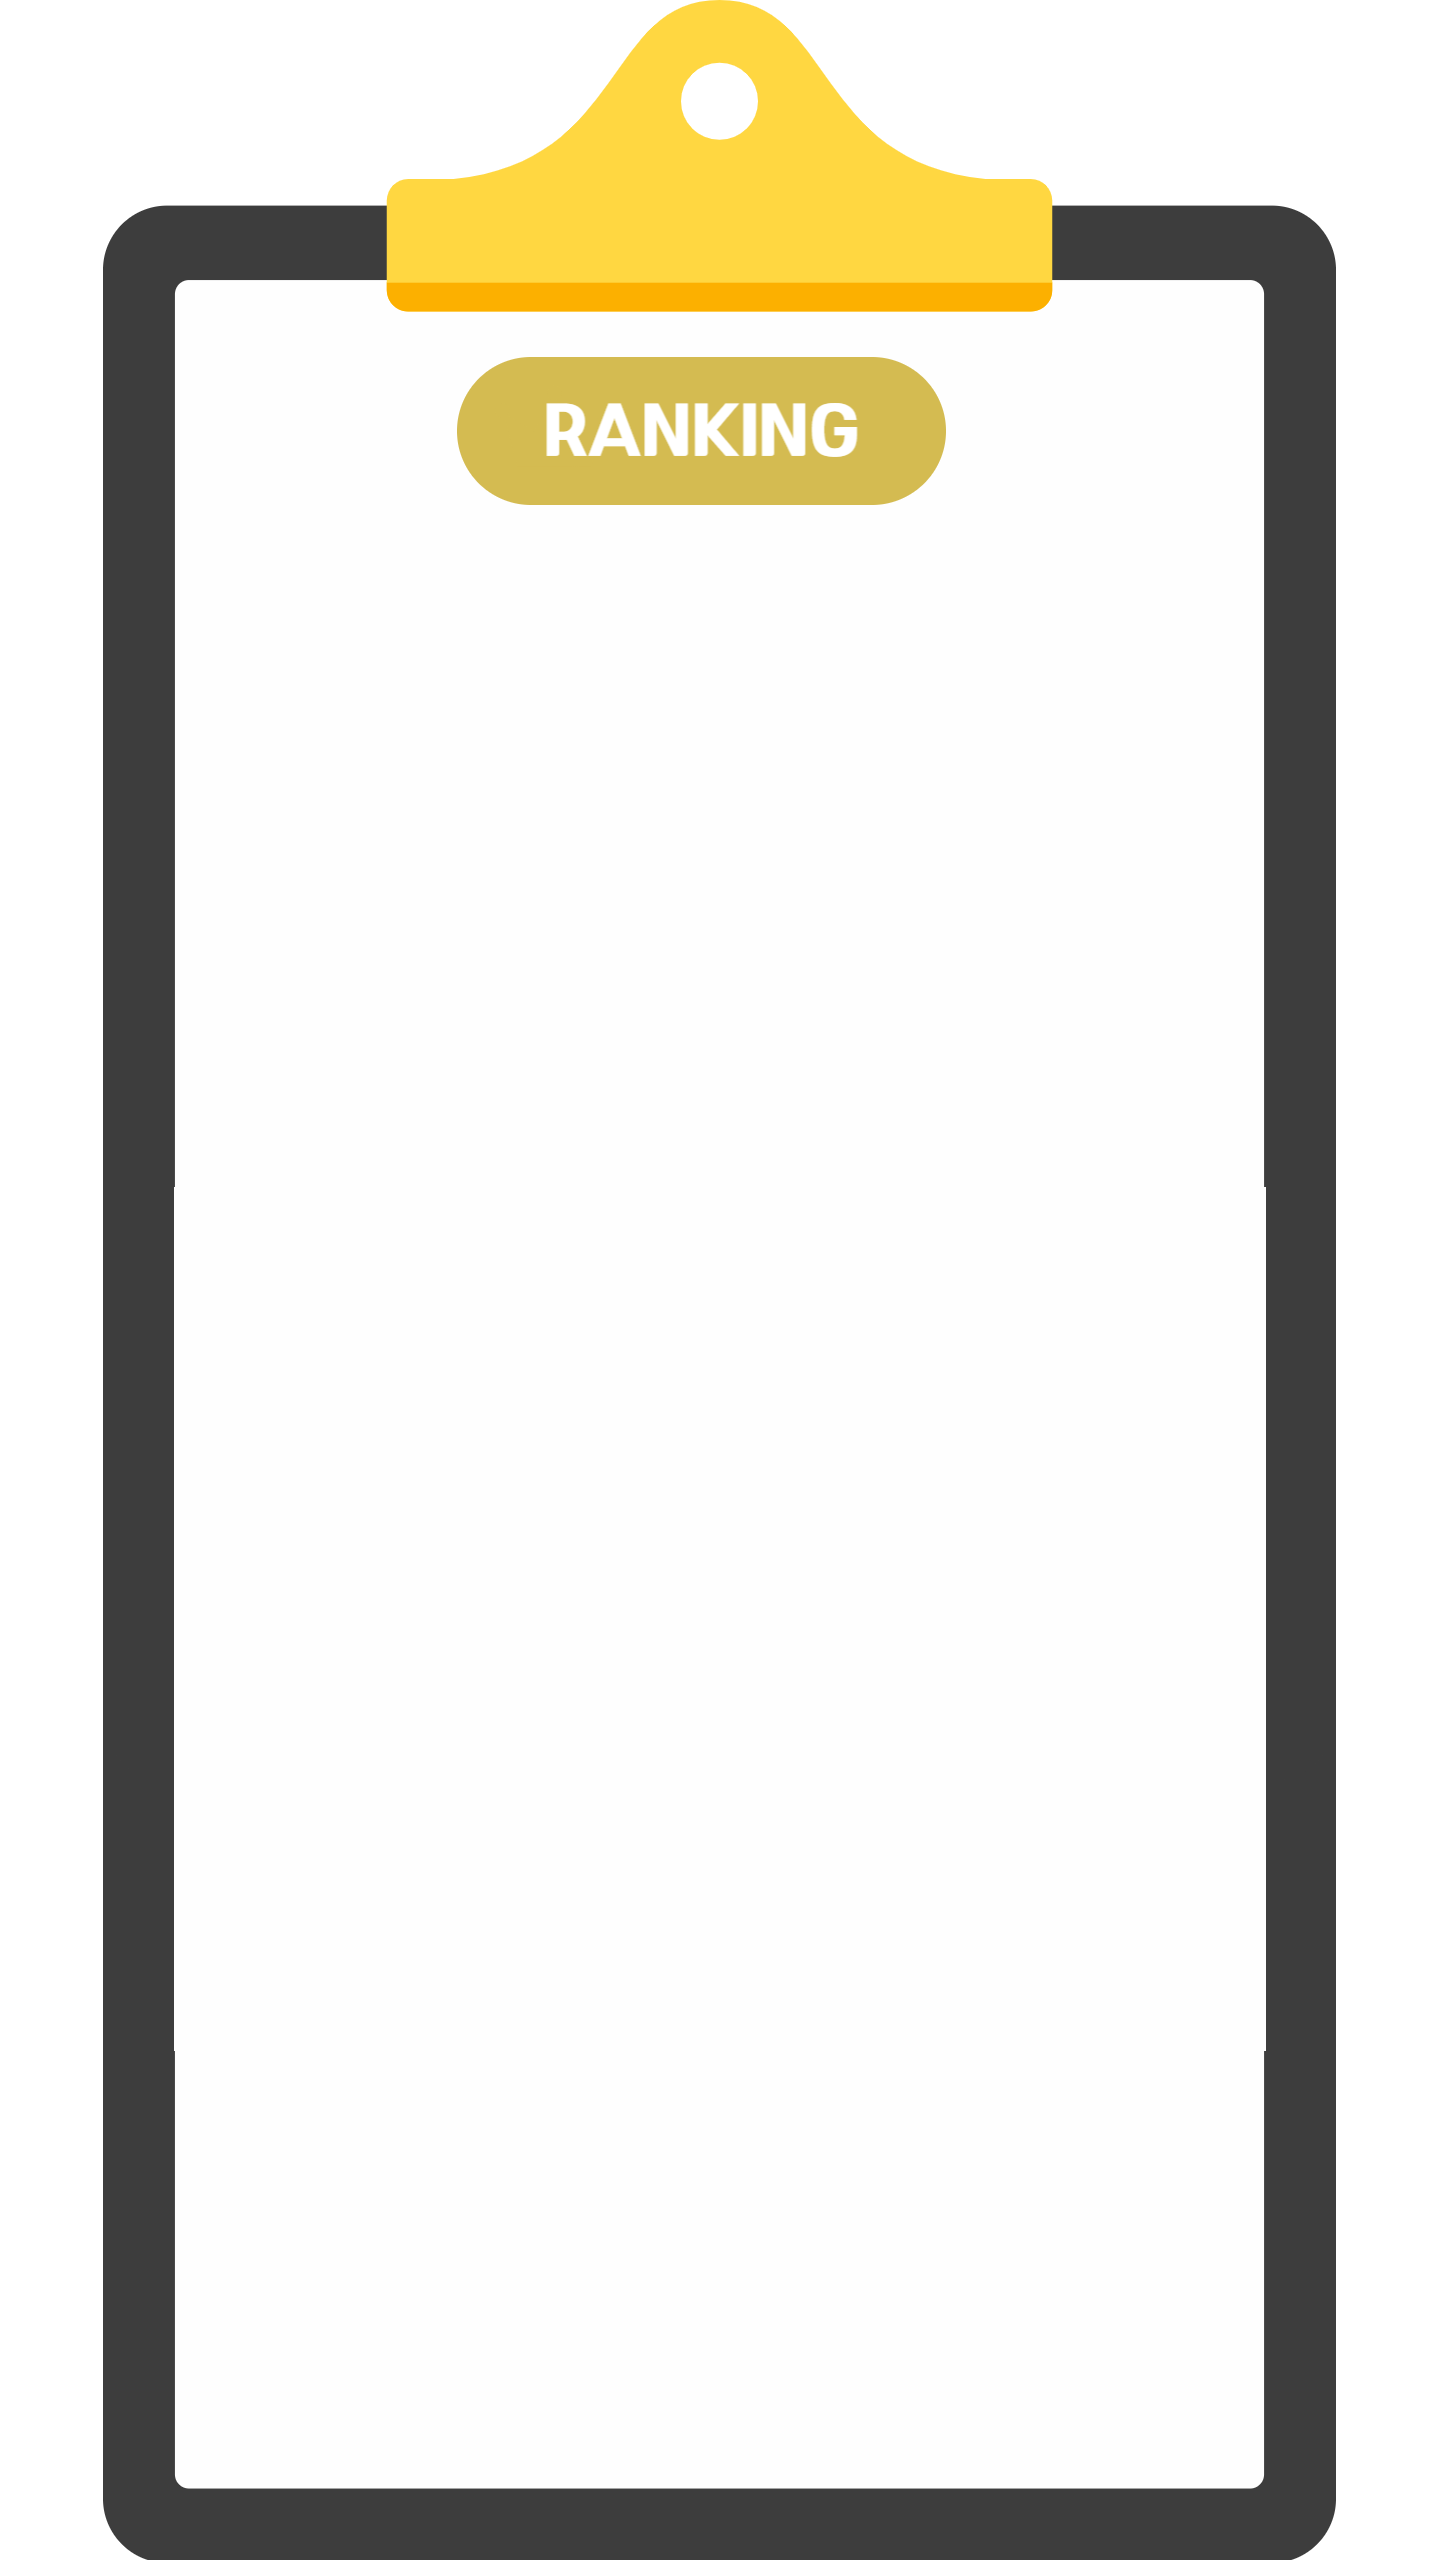
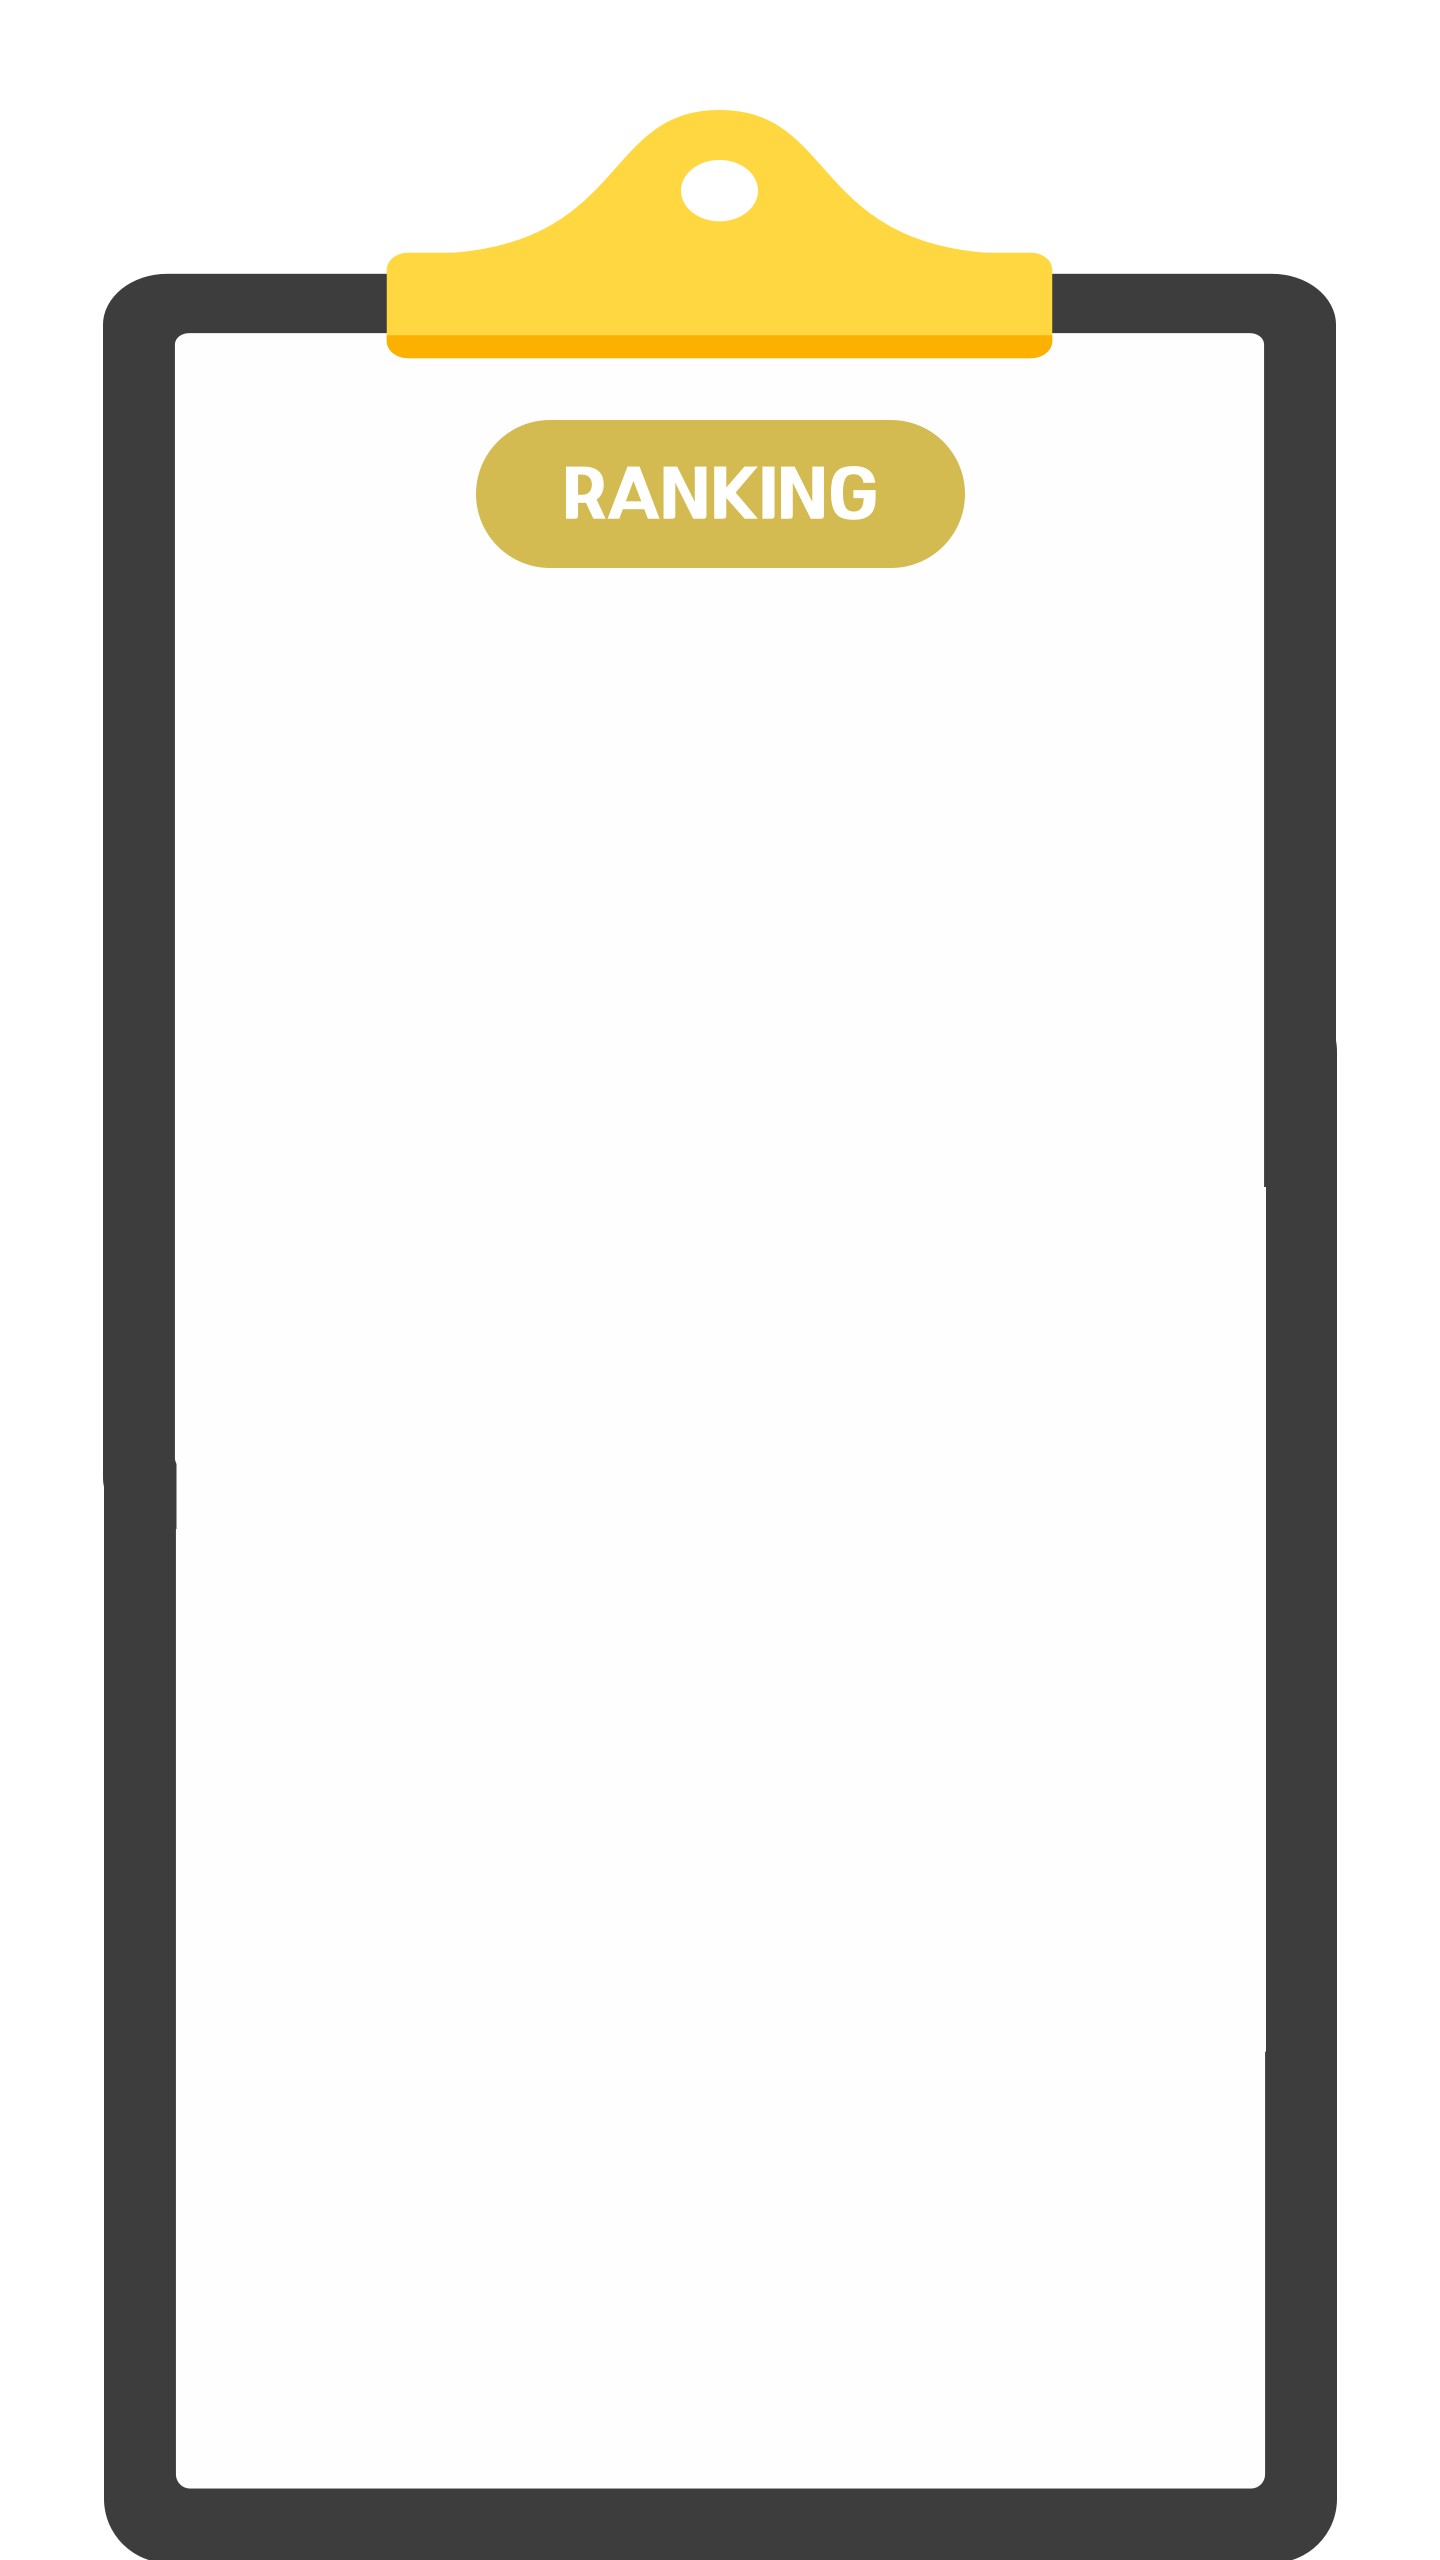
Fix: 랭킹 페이지 css 위치 수정

Changed region(s): [[0.0625, 0.0, 0.9375, 0.2188]]

diff --git a/frontend/src/pages/RankingPage/regionRanking.tsx b/frontend/src/pages/RankingPage/regionRanking.tsx
@@ -81,9 +81,9 @@ export default function RegionRanking({goToprofile} : RankingProps) {
           maxHeight={0}
           data={regions}
           search={false}
-          boxStyles={{width: '80%', height: windowHeight * 0.08, borderColor:"#d4bb51", borderWidth: 2, justifyContent : 'center', alignItems : 'center'}} 
+          boxStyles={{width: '80%', height: windowHeight * 0.06, borderColor:"#7ED3A1", borderWidth: 2, justifyContent : 'center', alignItems : 'center'}} 
           inputStyles={{width: '80%', fontSize: 15, }}
-          dropdownStyles={{height: windowHeight*0.3, borderColor:"#d4bb51", borderWidth: 1, width: 'auto', backgroundColor: 'white',}}
+          dropdownStyles={{height: windowHeight*0.3, borderColor:"#7ED3A1", borderWidth: 1, width: 'auto', backgroundColor: 'white',}}
           dropdownTextStyles={{fontSize: 15, width:'80%'}}
           fontFamily='NPSfont_regular'
           placeholder={"지역을 선택해주세요"}

diff --git a/frontend/src/pages/RankingPage/style.ts b/frontend/src/pages/RankingPage/style.ts
@@ -6,8 +6,9 @@ const styles = StyleSheet.create({
     flex: 1,
     alignItems: 'center',
     justifyContent : 'flex-start',
-    fontSize : 35,
+    // fontSize : 35,
     fontFamily : 'NPSfont_extrabold',
+    marginTop : windowHeight * 0.06
   },
   container: {
     flex: 1,
@@ -41,6 +42,7 @@ const styles = StyleSheet.create({
   title_head : {
     fontSize : 30,
     fontFamily : 'NPSfont_extrabold',
+    height: windowHeight * 0.06
   },
   ranking_container : {
     width : '90%',
